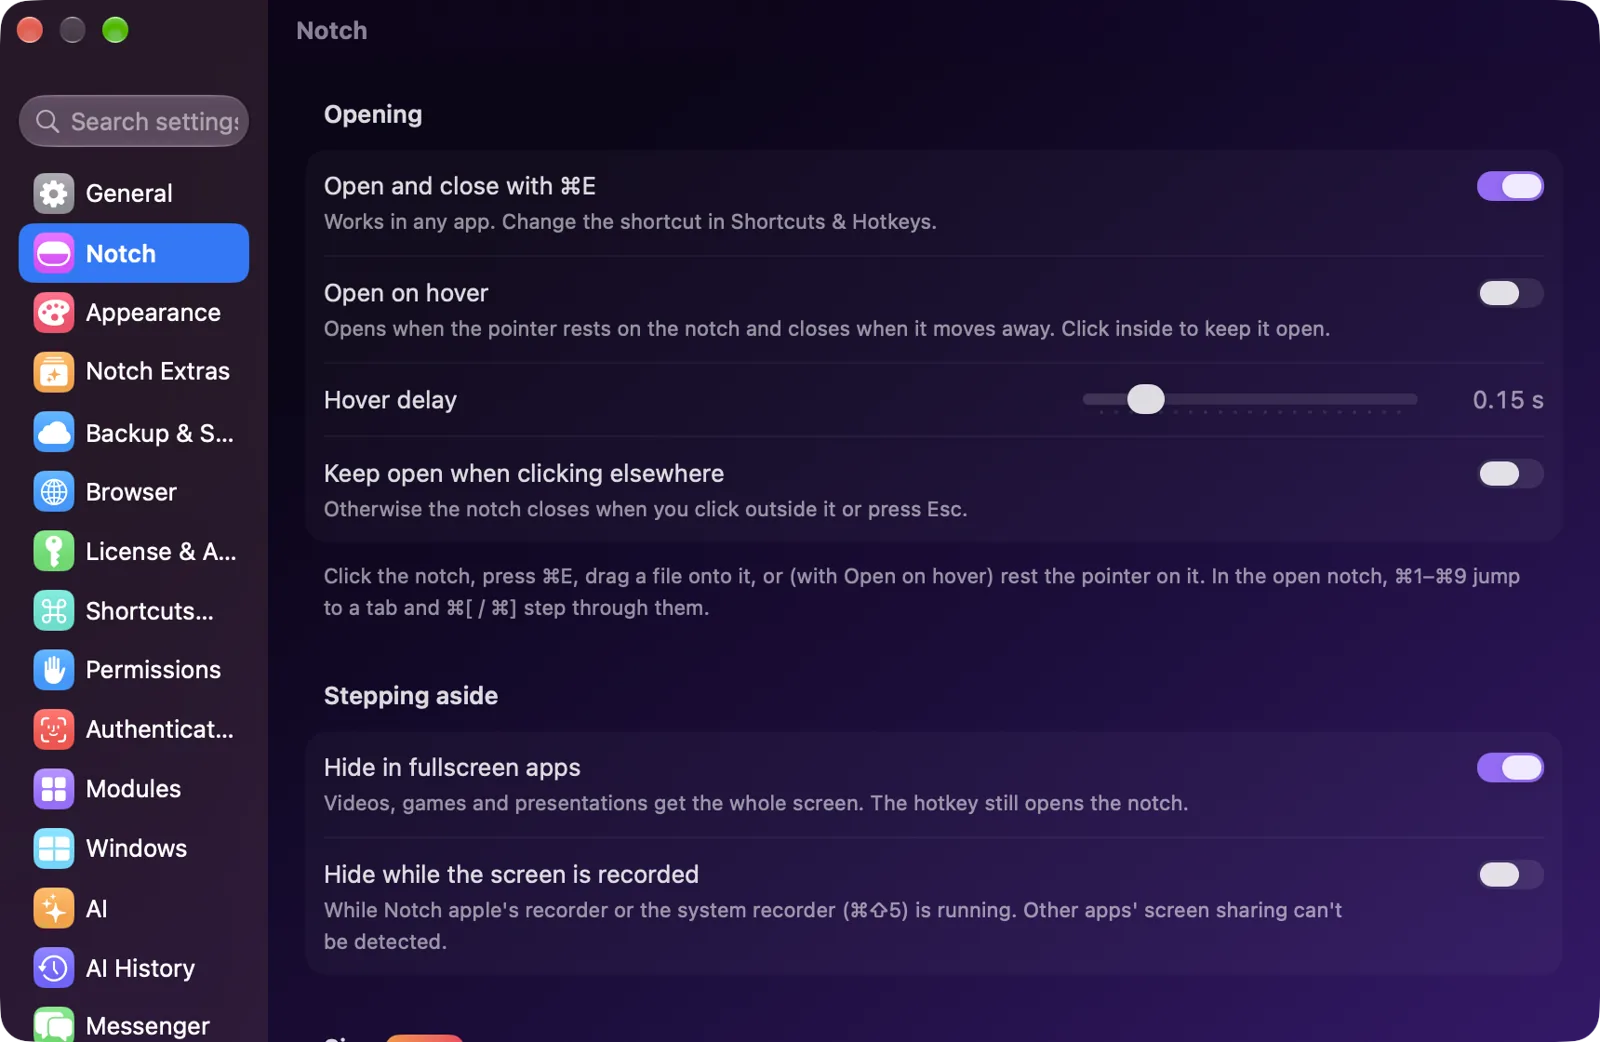
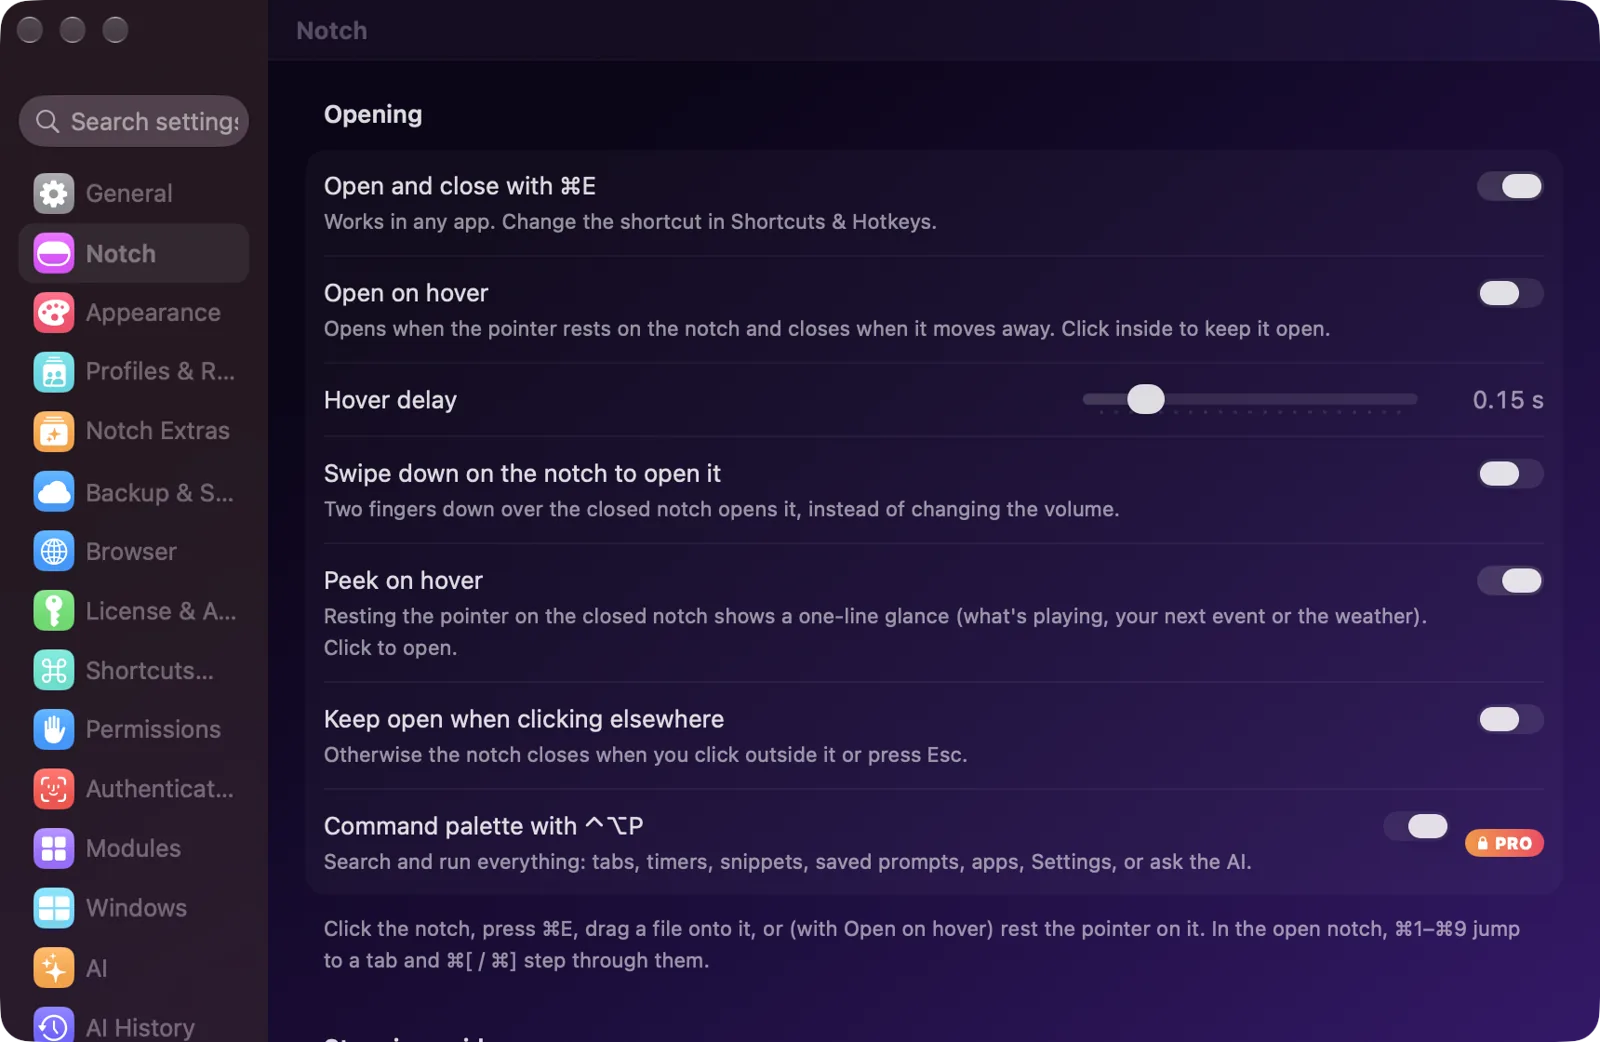
Site: 1.23.0, peek screenshot

diff --git a/index.html b/index.html
@@ -791,7 +791,7 @@ nav .links a.donate{color:var(--p3)}
 <section id="download"><div class="wrap">
   <div class="install dl reveal">
     <span class="eyebrow">Download</span>
-    <p class="ver" id="dlVer">Latest version · <b>Notch apple 1.22.0</b></p>
+    <p class="ver" id="dlVer">Latest version · <b>Notch apple 1.23.0</b></p>
     <div class="big">Download for <span class="grad">macOS</span></div>
     <div class="cta">
       <a class="btn" id="dlBtn" href="https://github.com/AdityaJainDXB/NotchApples/releases/latest"><svg aria-hidden="true"><use href="#dl"/></svg> <span>Download for macOS</span></a>
@@ -1017,6 +1017,7 @@ function qr(){if(window.QRCode)new QRCode($('#donateQr'),{text:'litecoin:'+$('#l
 
 // What's New, newest first; older releases folded away.
 const REL=[
+ ['1.23.0','4 October 2026','The finishing touches',['Peek: a one-line glance when you hover the notch','Swipe down to open, next-event countdown, Undo','Focus via Shortcuts, AppleScript','Pro: Do Not Disturb toggle, Things and Todoist'],'notch-peek'],
  ['1.22.0','4 October 2026','Trust, and a few more extras',['Settings → Privacy shows every permission and connection','Bug reports and crash reports you review first','Pro: week forecast, meeting planner, mic mute, top apps','Ultimate: beta channel, priority support, notes sync'],'settings-privacy'],
  ['1.21.0','4 October 2026','Make it yours',['Pro: Home dashboard, profiles, per-app rules','Pro: animation styles, sounds, fonts, menu bar icon','Ultimate: plugin SDK and gallery'],'home'],
  ['1.20.0','4 October 2026','Get more done',['To-do list for everyone','Pro: command palette, text expander, markup, ruler, converter','Ultimate: notch command for Terminal'],'palette'],
